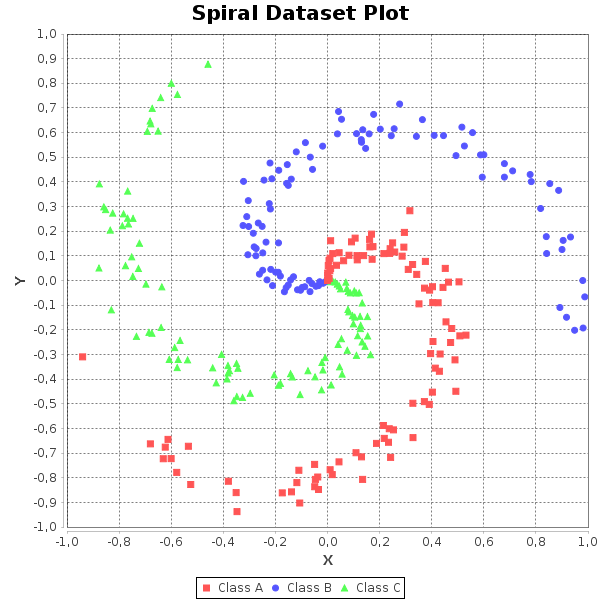
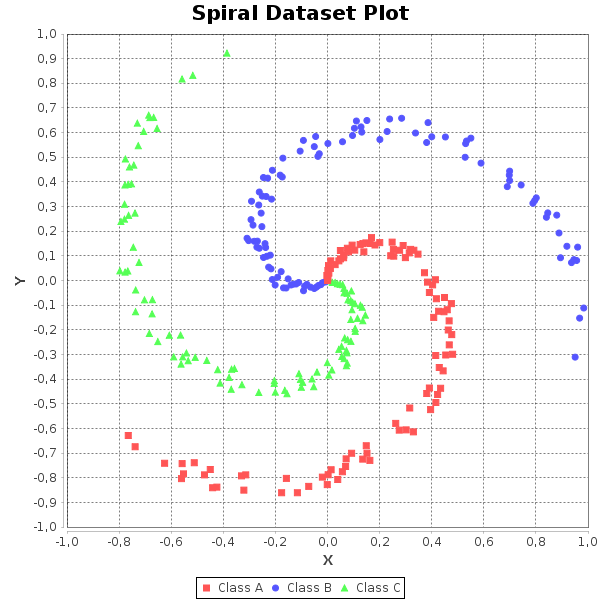
Loss loop values decreasing equivalent to python code, good!

diff --git a/duodecimoMachineLearningCodes/src/ml/NeuralNetworkStudy.java b/duodecimoMachineLearningCodes/src/ml/NeuralNetworkStudy.java
@@ -52,6 +52,7 @@ import util.matrix.DuodecimoVectorUtils;
  * @author duo
  */
 public class NeuralNetworkStudy {
+    private final boolean DEBUGCOMPAREPYTHON = false;
     int pointsPerClass = 100;
     int dimensionality = 2;
     int numberOfClasses = 3;
@@ -129,15 +130,17 @@ public class NeuralNetworkStudy {
             System.out.println("");
             */
 
-            /*
-            for (int ix = pointsPerClass * j, k=0; ix < pointsPerClass * (j + 1); ix++, k++) {
-                X.setEntry(ix, 0, r[k]*Math.sin(t[k]));
-                X.setEntry(ix, 1, r[k]*Math.cos(t[k]));
-                Y.setEntry(ix, j);
+            if (!DEBUGCOMPAREPYTHON) {
+                for (int ix = pointsPerClass * j, k = 0; ix < pointsPerClass * (j + 1); ix++, k++) {
+                    X.setEntry(ix, 0, r[k] * Math.sin(t[k]));
+                    X.setEntry(ix, 1, r[k] * Math.cos(t[k]));
+                    Y.setEntry(ix, j);
+                }
             }
-            */
         }
-        readMatrixFromTxt(X, Y);
+        if (DEBUGCOMPAREPYTHON) {
+            readMatrixFromTxt(X, Y);
+        }
         System.out.println(DuodecimoMatrixUtils.showRealMatrix("X:", X, 20, X.getColumnDimension()));
         System.out.println(DuodecimoVectorUtils.showRealVector("Y:", Y, 20));
         /* now we can plot the dataset in order to see taht it is not liearly separable.
@@ -207,22 +210,9 @@ public class NeuralNetworkStudy {
             }
             if(i<1) {
                 System.out.println(DuodecimoMatrixUtils.showRealMatrix("Scores:", Scores, 10, -1));
-                // scores debug: using read python data from file, it is equivalent!
+                // scores debug: using read python data from file, it is equivalent! (05/31/2017)
             }
             // compute the class probabilities
-            /* python:
-            # compute the class probabilities
-            exp_scores = np.exp(scores)
-            probs = exp_scores / np.sum(exp_scores, axis=1, keepdims=True) # [N x K]
-            type(scores): 
-            <type 'numpy.ndarray'> (300, 3)
-            type(exp_scores): 
-            <type 'numpy.ndarray'> (300, 3)
-            type(a): (a=np.sum(exp_scores, axis=1, keepdims=True))
-            <type 'numpy.ndarray'> (300, 1)
-            type(probs): 
-            <type 'numpy.ndarray'> (300, 3)
-            */
             divisor = new ArrayRealVector(Scores.getRowDimension()); // zeros vector of size pointsPerClass
             ExpScores = Scores.copy(); // [pointsPerClass x numberOfClasses]
             for(int row = 0; row < ExpScores.getRowDimension(); row++) {
@@ -233,25 +223,24 @@ public class NeuralNetworkStudy {
                 }
                 divisor.setEntry(row, rowSum);
             }
+            if(i<1) {
+                System.out.println(DuodecimoMatrixUtils.showRealMatrix("ExpScores:", ExpScores, 10, -1));
+                // exp_scores debug: using read python data from file, it is equivalent! (06/01/2017)
+            }
             Probabilities = ExpScores.copy();
             for(int row=0; row<Probabilities.getRowDimension(); row++) {
                 Probabilities.setRowVector(row, Probabilities.getRowVector(row).
                         mapDivide(divisor.getEntry(row)));
             }
+            if(i<1) {
+                System.out.println(DuodecimoMatrixUtils.showRealMatrix("Probabilities:", Probabilities, 10, -1));
+                // probs debug: using read python data from file, it is equivalent! (06/01/2017)
+            }
             /*
-            # compute the loss: average cross-entropy loss and regularization
-
                     att: probs[range(num_examples),y]
                          will select from each probs row (range(num_examples))
                          the value of the column of the correct class (y)
                          returning a vector of num_examples elements
-            
-              corect_logprobs = -np.log(probs[range(num_examples),y])
-              data_loss = np.sum(corect_logprobs)/num_examples
-              reg_loss = 0.5*reg*np.sum(W*W)
-              loss = data_loss + reg_loss
-              if i % 10 == 0:
-                print "iteration %d: loss %f" % (i, loss)
             */
             logProbs = new ArrayRealVector(X.getRowDimension()); // zeros vector
             sumLogProbs=0;
@@ -260,6 +249,10 @@ public class NeuralNetworkStudy {
                 sumLogProbs+=logProbs.getEntry(row);
             }
             dataLoss = sumLogProbs/X.getRowDimension();
+            if(i<1) {
+                System.out.println(String.format("\nData Loss = %f\n\n", dataLoss));
+                // data_loss debug: using read python data from file, it is equivalent! (06/01/2017)
+            }
             wSum = 0.0d;
             for(int row=0; row<W.getRowDimension(); row++) {
                 for(int col=0; col<W.getColumnDimension(); col++) {
@@ -267,40 +260,33 @@ public class NeuralNetworkStudy {
                 }
             }
             regularizedLoss = 0.5d * regularization * wSum;
+            if(i<1) {
+                System.out.println(String.format("\nRegularized loss = %f\n\n", regularizedLoss));
+                // check! (python 2e-07)
+            }
             loss = dataLoss + regularizedLoss;
+            if(i<1) {
+                System.out.println(String.format("\nLoss = %f\n\n", loss));
+                // loss debug: using read python data from file, it is equivalent! (06/01/2017)
+            }
             if(i%10==0) {
                 System.out.println(String.format("iteration %d: loss %f", i, loss));
-                /*
-                if (DW != null) {
-                    System.out.println(DuodecimoMatrixUtils.showRealMatrix("DW.scalarMultiply(-stepSize):", DW.scalarMultiply(-stepSize)));
-                }
-                */
+                // loss debug: using read python data from file,
+                // all iterations are equivalent! (06/01/2017)
             }
-            /*
-              # compute the gradient on scores
-              dscores = probs
-              dscores[range(num_examples),y] -= 1
-              dscores /= num_examples
-
-              # backpropate the gradient to the parameters (W,b)
-              dW = np.dot(X.T, dscores)
-              db = np.sum(dscores, axis=0, keepdims=True)
-
-              dW += reg*W # regularization gradient
-
-              # perform a parameter update
-              W += -step_size * dW
-              b += -step_size * db
-            */
             // compute the gradient on scores
             DScores = Probabilities.copy();
             for(int row=0; row<DScores.getRowDimension(); row++) {
                 DScores.setEntry(row, (int) Y.getEntry(row), 
-                        DScores.getEntry(row, (int) Y.getEntry(row)));
+                        DScores.getEntry(row, (int) Y.getEntry(row))-1.0d);
                 for(int col=0; col<DScores.getColumnDimension(); col++) {
-                DScores.setEntry(row, col, 
-                        DScores.getEntry(row, col)/X.getRowDimension());
+                    DScores.setEntry(row, col,
+                            DScores.getEntry(row, col) / X.getRowDimension());
                 }
+            }
+            if(i<1) {
+                System.out.println(DuodecimoMatrixUtils.showRealMatrix("DScores:", DScores, 10, -1));
+                // dscores debug: using read python data from file, it is equivalent! (06/01/2017)
             }
             // backpropate the gradient to the parameters (W,b)
             DW = X.transpose().multiply(DScores);

diff --git a/duodecimoMachineLearningCodes/python/neuralNetWork.py b/duodecimoMachineLearningCodes/python/neuralNetWork.py
@@ -91,42 +91,64 @@ for i in xrange(200):
     print(type(scores)),
     print(scores.shape)
     print(scores)
+    print("=====================================================================\n\n")
   
   # compute the class probabilities
   exp_scores = np.exp(scores)
+  if i<1:
+    print("\nexp_scores:"),
+    print(type(exp_scores)),
+    print(exp_scores.shape)
+    print(exp_scores)
+    print("=====================================================================\n\n")
+  
   probs = exp_scores / np.sum(exp_scores, axis=1, keepdims=True) # [N x K]
+  if i<1:
+    print("\nprobs:"),
+    print(type(probs)),
+    print(probs.shape)
+    print(probs)
+    print("=====================================================================\n\n")
+  
 
   # compute the loss: average cross-entropy loss and regularization
   corect_logprobs = -np.log(probs[range(num_examples),y])
   data_loss = np.sum(corect_logprobs)/num_examples
+  if i<1:
+    print("\ndata_loss:"),
+    print(type(data_loss))
+    print(data_loss)
+    print("=====================================================================\n\n")
+  
   reg_loss = 0.5*reg*np.sum(W*W)
+  if i<1:
+    print("\nreg_loss:"),
+    print(type(reg_loss))
+    print(reg_loss)
+    print("=====================================================================\n\n")
+  
   loss = data_loss + reg_loss
+  if i<1:
+    print("\nloss:"),
+    print(type(loss))
+    print(loss)
+    print("=====================================================================\n\n")
+  
   if i % 10 == 0:
     print "iteration %d: loss %f" % (i, loss)
   
   # compute the gradient on scores
   dscores = probs
-
-  #print("1: dscores: "),
-  #print(type(dscores)),
-  #print(dscores.shape)
-  #print(dscores)
-
 	# minus one from correct class columns
   dscores[range(num_examples),y] -= 1
-
-  #print("2: dscores: "),
-  #print(type(dscores)),
-  #print(dscores.shape)
-  #print(dscores)
-
   dscores /= num_examples
-
-  #print("3: dscores: "),
-  #print(type(dscores)),
-  #print(dscores.shape)
-  #print(dscores)
-
+  if i<1:
+    print("\ndscores:"),
+    print(type(dscores)),
+    print(dscores.shape)
+    print(dscores)
+    print("=====================================================================\n\n")
+  
   #print("np.sum(dscores, axis=0, keepdims=True): "),
   #print(type(np.sum(dscores, axis=0, keepdims=True))),
   #print(np.sum(dscores, axis=0, keepdims=True))
